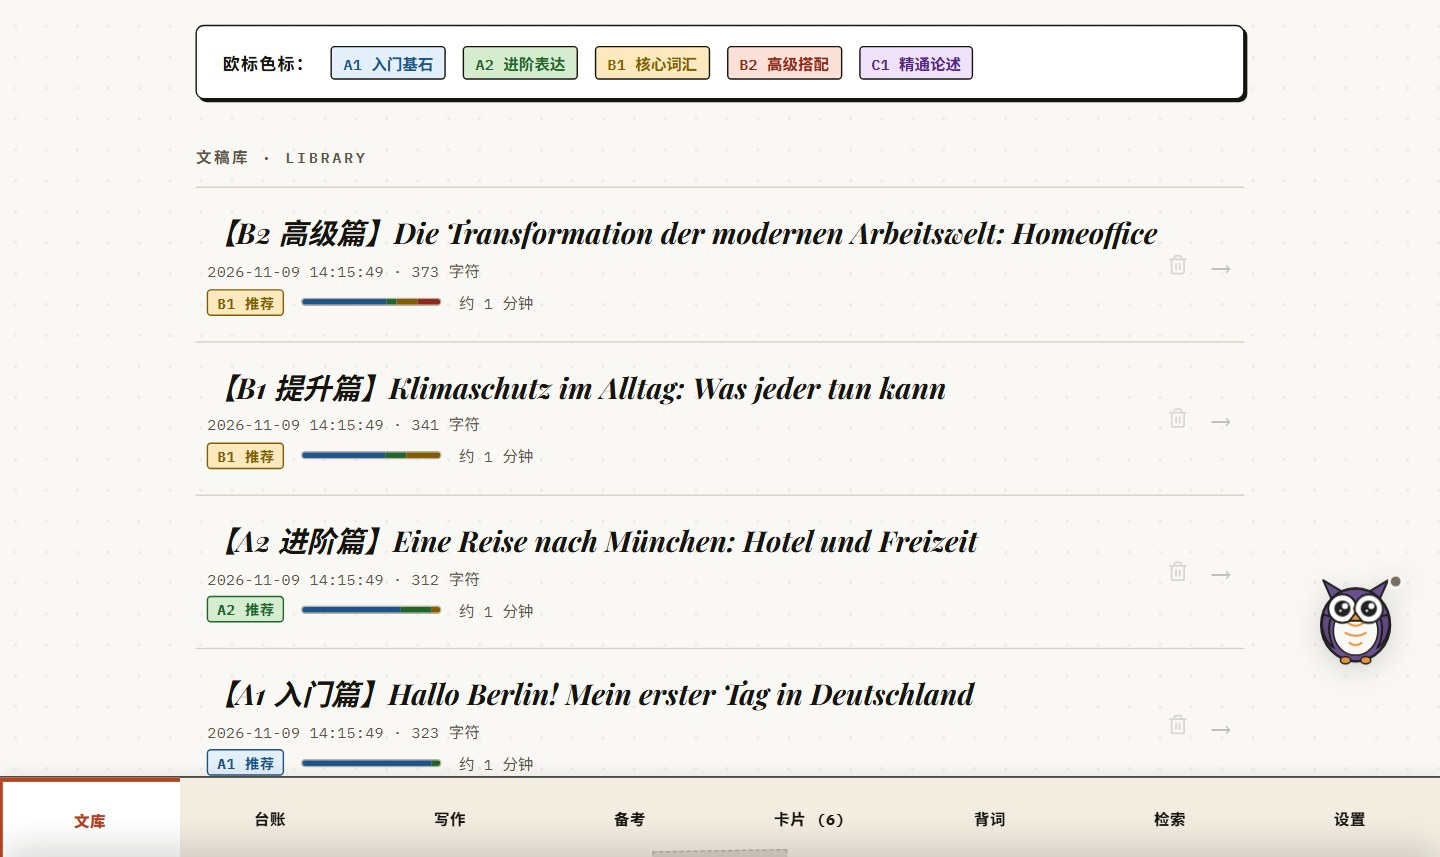
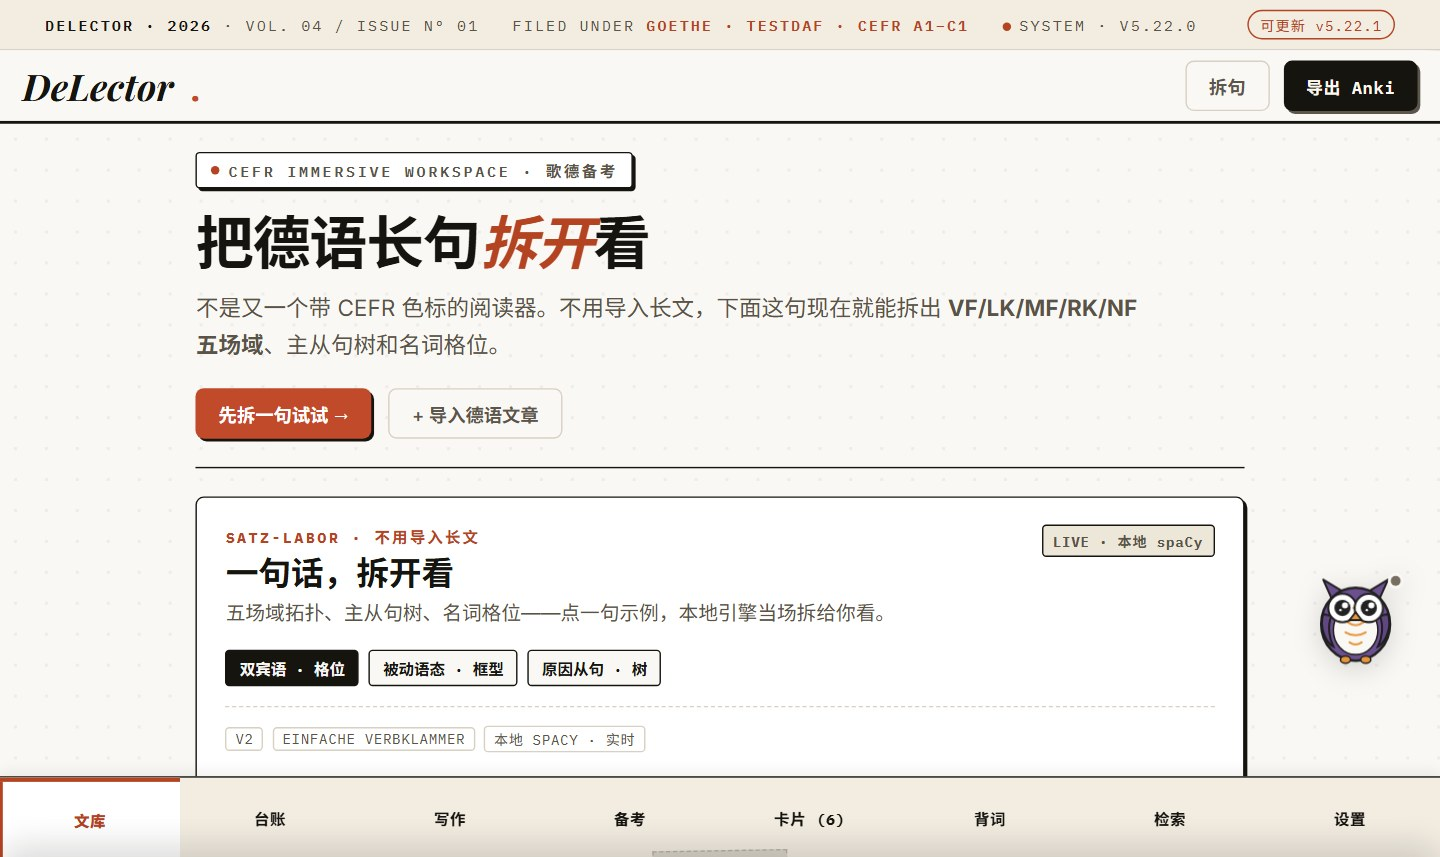
docs(readme): use first-screen hero and B2 exam reader shot
Home image now captures the unscrolled first screen (masthead + hero + Satz-Labor), with alt updated; reader image switches to the B2 exam view (dot-line highlights) and is renamed to readme-reader-b2.jpg with README src/alt synced. Version label left at V5.22.0.

diff --git a/README.md b/README.md
@@ -22,8 +22,8 @@
 </p>
 
 <p align="center">
-  <img src="docs/images/readme-home-hero.jpg" alt="文稿库首页 · CEFR 色标图例" width="49%" />
-  <img src="docs/images/readme-reader-b1.jpg" alt="沉浸阅读器 · CEFR 难度光谱、考点高亮与影子跟读" width="49%" />
+  <img src="docs/images/readme-home-hero.jpg" alt="首页首屏 · 长句五场域拆解与实时拓扑演示" width="49%" />
+  <img src="docs/images/readme-reader-b2.jpg" alt="沉浸阅读器 · CEFR 难度光谱、B2 考点点线高亮与影子跟读" width="49%" />
 </p>
 
 ---
